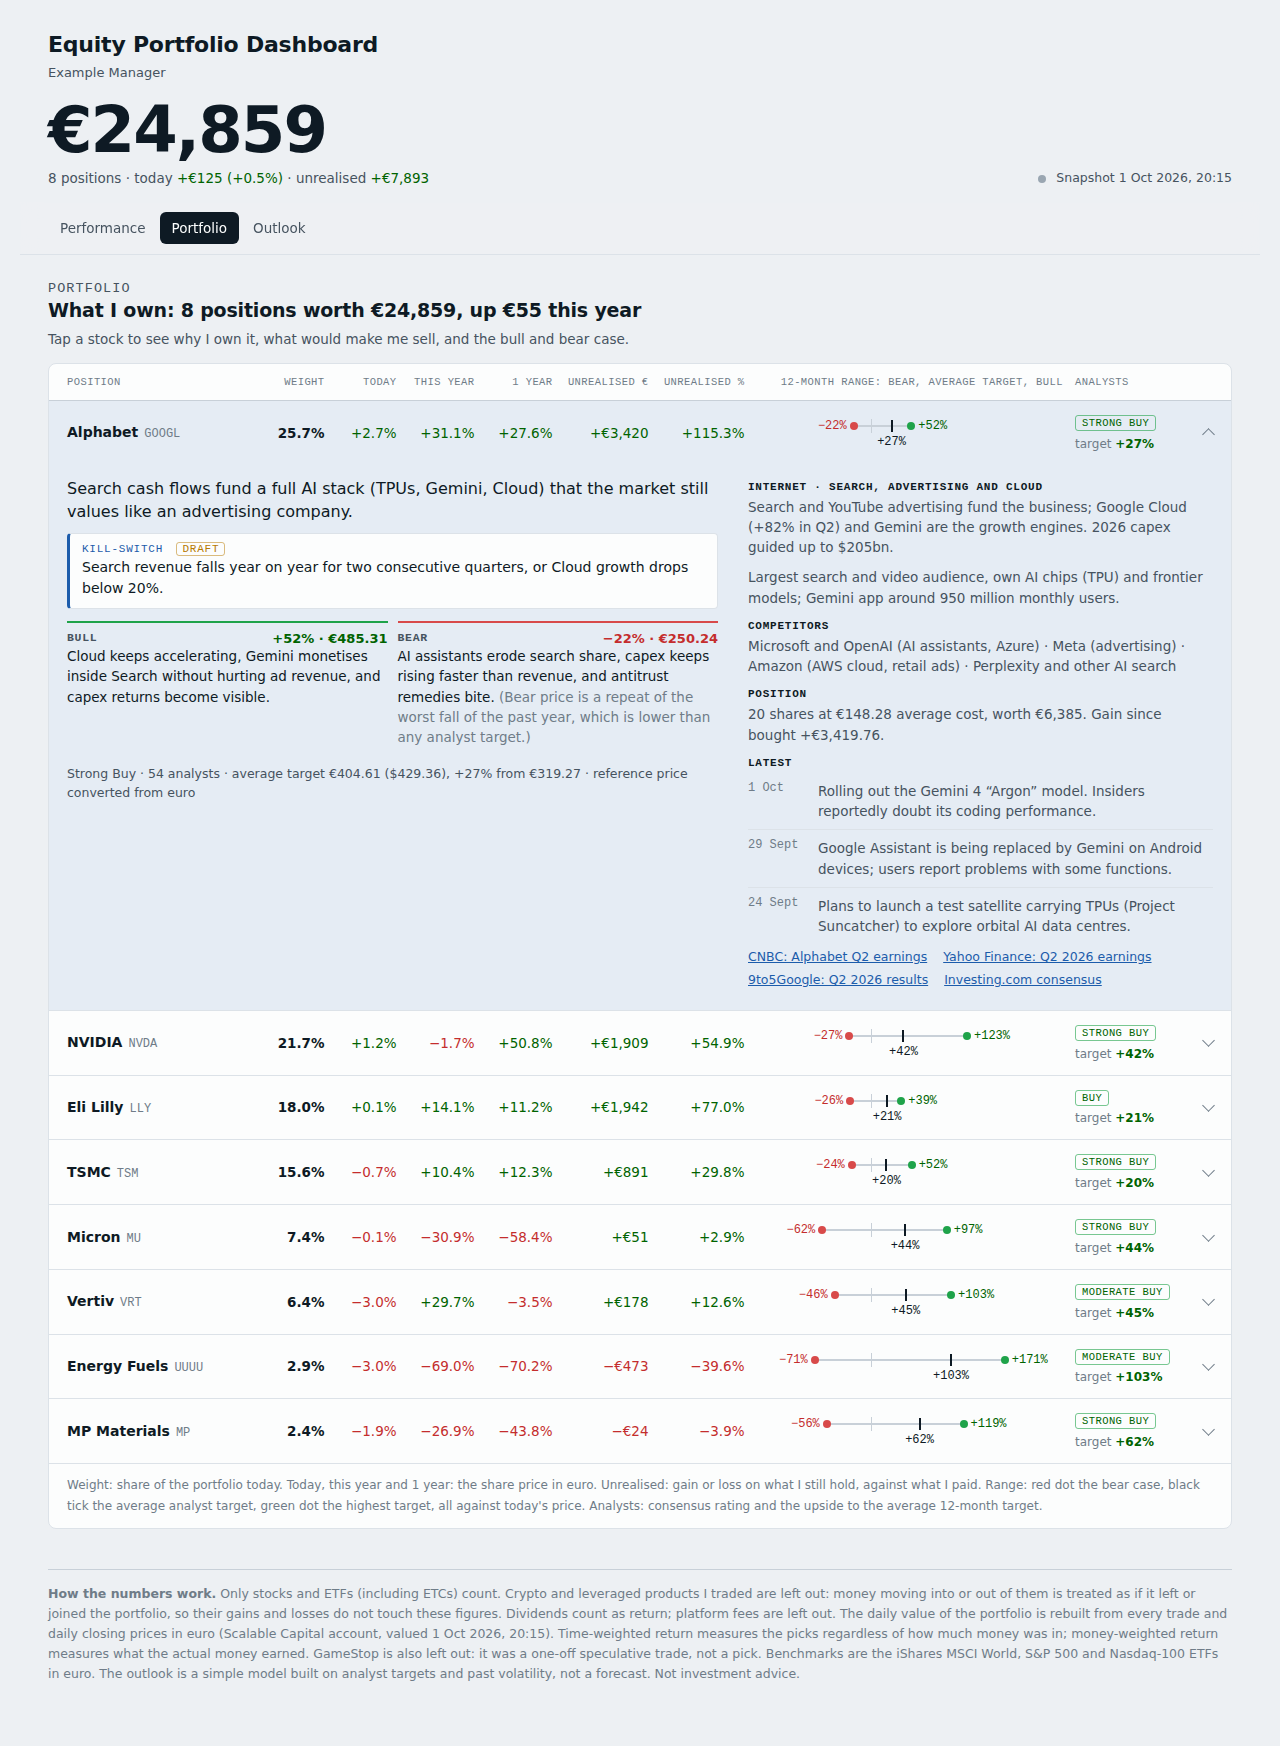
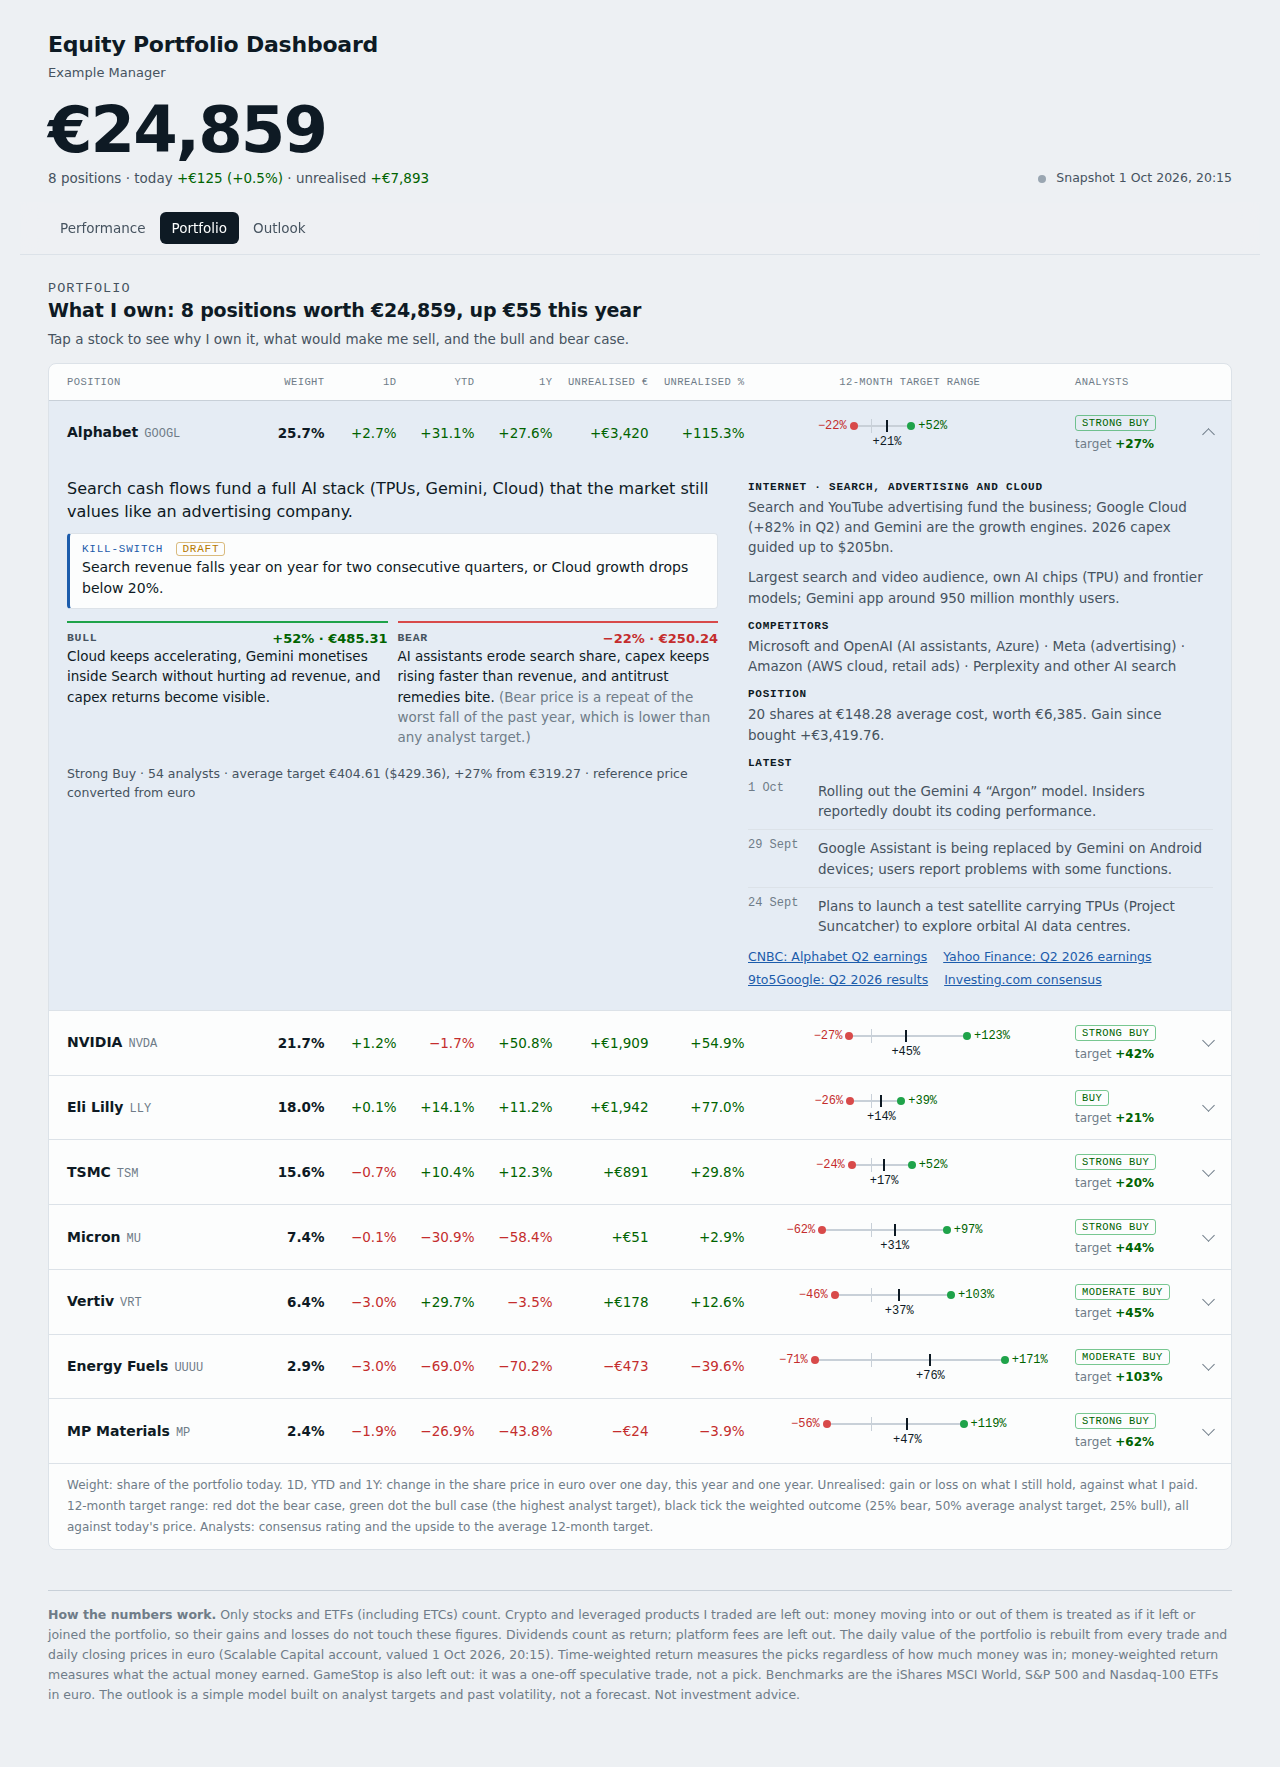
Portfolio: 1D/YTD/1Y, weighted target tick; Outlook: benchmarks at historical CAGR
- Columns renamed 1D, YTD and 1Y; range header is now "12-month target range"
- The black tick is the weighted outcome: 25% bear, 50% average target, 25% bull
- New pipeline/fetch_index_history.js stores each index ETF's annualised growth since
  June 2010 (MSCI World 12.5%, S&P 500 13.6%, Nasdaq-100 18.6%); the Outlook uses it
  as the benchmark's expected return instead of a flat 7%

Claude-Session: https://claude.ai/code/session_01ABTLXaQmWwDDpoTxDco2CE

diff --git a/src/page/views.js b/src/page/views.js
@@ -174,9 +174,10 @@ function renderBook() {
   root.innerHTML = `
   <div class="lede"><div><p class="kicker">Portfolio</p><h2>What I own: ${M.H.length} positions worth ${fmtEUR0(V)}, ${ytd >= 0 ? 'up' : 'down'} ${fmtEUR0(Math.abs(ytd))} this year</h2><p>Tap a stock to see why I own it, what would make me sell, and the bull and bear case.</p></div></div>
   <div class="panel flat">
-    <div class="book-h"><span>Position</span><span>Weight</span><span class="c-d">Today</span><span class="c-d">This year</span><span>1 year</span><span class="c-m">Unrealised €</span><span>Unrealised %</span><span class="c-m c-rng">12-month range: bear, average target, bull</span><span class="c-m">Analysts</span><span></span></div>
+    <div class="book-h"><span>Position</span><span>Weight</span><span class="c-d">1D</span><span class="c-d">YTD</span><span>1Y</span><span class="c-m">Unrealised €</span><span>Unrealised %</span><span class="c-m c-rng">12-month target range</span><span class="c-m">Analysts</span><span></span></div>
     ${M.H.map((h) => {
       const sc = h.sc, cons = h.research && h.research.cons, open = state.open === h.isin;
+      const mid = sc ? expOf(sc, PRESETS.analyst.p) : null; // 25% bear, 50% average target, 25% bull
       return `<div class="posn${open ? ' open' : ''}" data-i="${h.isin}">
         <button class="pos-row" aria-expanded="${open}" aria-controls="pd-${h.isin}">
           <span class="nm"><b>${esc(h.name)}</b><small>${esc(h.ticker || '')}</small></span>
@@ -186,14 +187,14 @@ function renderBook() {
           <span class="n">${pc(h, '1Y')}</span>
           <span class="n c-m">${h.pnl != null ? eur0Span(h.pnl) : '–'}</span>
           <span class="n">${h.pnl != null ? pctSpan(h.pnlPct, 1) : '–'}</span>
-          <span class="c-m c-rng">${sc ? `<span class="rng" role="img" aria-label="Bear ${fmtSignedPct(sc.bear, 0)}, average target ${fmtSignedPct(sc.base, 0)}, bull ${fmtSignedPct(sc.bull, 0)}"><i class="z" style="left:${PX(0)}%"></i><i class="seg" style="left:${PX(sc.bear)}%;width:${PX(sc.bull) - PX(sc.bear)}%"></i><i class="d bear" style="left:${PX(sc.bear)}%"></i><i class="t" style="left:${PX(sc.base)}%"></i><i class="d bull" style="left:${PX(sc.bull)}%"></i><em class="lb neg" style="right:calc(${100 - PX(sc.bear)}% + 7px)">${fmtSignedPct(sc.bear, 0)}</em><em class="lb bs" style="left:${PX(sc.base)}%">${fmtSignedPct(sc.base, 0)}</em><em class="lb pos" style="left:calc(${PX(sc.bull)}% + 7px)">${fmtSignedPct(sc.bull, 0)}</em></span>` : '<small class="muted">no analyst coverage</small>'}</span>
+          <span class="c-m c-rng">${sc ? `<span class="rng" role="img" aria-label="Bear ${fmtSignedPct(sc.bear, 0)}, weighted ${fmtSignedPct(mid, 0)}, bull ${fmtSignedPct(sc.bull, 0)}"><i class="z" style="left:${PX(0)}%"></i><i class="seg" style="left:${PX(sc.bear)}%;width:${PX(sc.bull) - PX(sc.bear)}%"></i><i class="d bear" style="left:${PX(sc.bear)}%"></i><i class="t" style="left:${PX(mid)}%"></i><i class="d bull" style="left:${PX(sc.bull)}%"></i><em class="lb neg" style="right:calc(${100 - PX(sc.bear)}% + 7px)">${fmtSignedPct(sc.bear, 0)}</em><em class="lb bs" style="left:${PX(mid)}%">${fmtSignedPct(mid, 0)}</em><em class="lb pos" style="left:calc(${PX(sc.bull)}% + 7px)">${fmtSignedPct(sc.bull, 0)}</em></span>` : '<small class="muted">no analyst coverage</small>'}</span>
           <span class="c-m cons">${cons && sc ? `<span class="rt ${ratingCls(cons.rating)}">${esc(cons.rating)}</span><small>target <b class="${cls(sc.base)}">${fmtSignedPct(sc.base, 0)}</b></small>` : '<small class="muted">–</small>'}</span>
           <span class="chev" aria-hidden="true"></span>
         </button>
         <div class="pos-d" id="pd-${h.isin}" ${open ? '' : 'hidden'}>${open ? positionDetail(h) : ''}</div>
       </div>`;
     }).join('')}
-    <div class="book-f"><span class="foot-n">Weight: share of the portfolio today. Today, this year and 1 year: the share price in euro. Unrealised: gain or loss on what I still hold, against what I paid. Range: red dot the bear case, black tick the average analyst target, green dot the highest target, all against today's price. Analysts: consensus rating and the upside to the average 12-month target.</span></div>
+    <div class="book-f"><span class="foot-n">Weight: share of the portfolio today. 1D, YTD and 1Y: change in the share price in euro over one day, this year and one year. Unrealised: gain or loss on what I still hold, against what I paid. 12-month target range: red dot the bear case, green dot the bull case (the highest analyst target), black tick the weighted outcome (25% bear, 50% average analyst target, 25% bull), all against today's price. Analysts: consensus rating and the upside to the average 12-month target.</span></div>
   </div>`;
 
   $$('#t-book .pos-row').forEach((b) => b.addEventListener('click', () => {
@@ -251,8 +252,11 @@ function renderRisk() {
   const bName = BSHORT[bench.id] || bench.name;
   const n = state.hz, t = n / 12, hzL = HORIZONS.find((x) => x[0] === n)[1];
   const sigma = R.vol, bVol = R.bVol[bench.id], beta = R.pBeta[bench.id], rho = R.pCorr[bench.id];
-  const mP = Math.log(1 + O.exp) - sigma * sigma / 2, mB = Math.log(1 + REF_MU) - bVol * bVol / 2;
-  const exp = (1 + O.exp) ** t - 1, bExp = (1 + REF_MU) ** t - 1;
+  const ix = M.D.indices.find((x) => x.id === bench.id) || {};
+  const bMu = ix.cagr != null ? ix.cagr : REF_MU; // the benchmark's own historical annual growth
+  const bMuTxt = ix.cagr != null ? `its historical pace of ${fmtSignedPct(bMu, 1)} a year (${dfmt(ix.cagrFrom + '-15', { day: undefined })} to ${dfmt(ix.cagrTo + '-15', { day: undefined })})` : `an assumed ${fmtSignedPct(bMu, 0)} a year`;
+  const mP = Math.log(1 + O.exp) - sigma * sigma / 2, mB = Math.log(1 + bMu) - bVol * bVol / 2;
+  const exp = (1 + O.exp) ** t - 1, bExp = (1 + bMu) ** t - 1;
   const q = (z) => Math.exp(mP * t + z * sigma * Math.sqrt(t)) - 1;
   const sd = Math.sqrt(Math.max(1e-9, sigma * sigma + bVol * bVol - 2 * rho * sigma * bVol) * t);
   const pBeat = normCdf(((mP - mB) * t) / sd);
@@ -264,19 +268,19 @@ function renderRisk() {
     <div class="seg" role="group" aria-label="Scenario odds">${Object.entries(PRESETS).map(([k, v]) => `<button data-pre="${k}" aria-pressed="${k === state.preset}">${v.label}</button>`).join('')}</div>
   </div>
   <div class="kpis4">
-    ${kpi('Expected, ' + hzL, fmtSignedPct(exp, 0), cls(exp), `${exp >= 0 ? '+' : ''}${fmtEUR0(exp * V)} · ${esc(bName)} ${fmtSignedPct(bExp, 0)} assumed`)}
+    ${kpi('Expected, ' + hzL, fmtSignedPct(exp, 0), cls(exp), `${exp >= 0 ? '+' : ''}${fmtEUR0(exp * V)} · ${esc(bName)} ${fmtSignedPct(bExp, 0)} at its historical pace`)}
     ${kpi('9 in 10 outcomes', `<span class="${cls(q(-1.645))}">${fmtSignedPct(q(-1.645), 0)}</span> <span class="muted">to</span> <span class="${cls(q(1.645))}">${fmtSignedPct(q(1.645), 0)}</span>`, '', `${fmtEUR0(V * (1 + q(-1.645)))} to ${fmtEUR0(V * (1 + q(1.645)))}`)}
     ${kpi('Chance of beating ' + esc(bName), Math.round(pBeat * 100) + '%', pBeat >= 0.5 ? 'pos' : 'neg', `over ${hzL}, correlation ${fmtNum(rho, 2)}`)}
     ${kpi('Volatility', (sigma * 100).toFixed(0) + '%', '', `${esc(bName)} ${(bVol * 100).toFixed(0)}% · beta ${fmtNum(beta, 2)}`)}
   </div>
   <div class="panel" style="margin-top:14px">
-    <h3>Range of outcomes, next ${hzL}</h3><p class="sub">Portfolio worth ${fmtEUR0(V)} today. Shaded: 9 in 10 outcomes and the middle half. Dashed: ${esc(bName)} at an assumed ${Math.round(REF_MU * 100)}% a year with its own volatility. Odds ${pr.map((x) => Math.round(x * 100)).join('/')} (bull/base/bear)${n > 12 ? '; beyond 12 months the expected return is assumed to repeat' : ''}.</p>
+    <h3>Range of outcomes, next ${hzL}</h3><p class="sub">Portfolio worth ${fmtEUR0(V)} today. Shaded: 9 in 10 outcomes and the middle half. Dashed: ${esc(bName)} growing at ${bMuTxt}, with its own volatility. Odds ${pr.map((x) => Math.round(x * 100)).join('/')} (bull/base/bear)${n > 12 ? '; beyond 12 months the expected return is assumed to repeat' : ''}.</p>
     <div id="fan" class="chart"></div>
   </div>`;
   $$('#t-risk [data-pre]').forEach((b) => b.addEventListener('click', () => { state.preset = b.dataset.pre; renderRisk(); }));
   $$('#t-risk [data-hz]').forEach((b) => b.addEventListener('click', () => { state.hz = +b.dataset.hz; renderRisk(); }));
   $$('#t-risk [data-ob]').forEach((b) => b.addEventListener('click', () => { state.obench = b.dataset.ob; renderRisk(); }));
-  const fo = { V0: V, mu: O.exp, sigma, months: n, t0: M.asOf, ref: { mu: REF_MU, sigma: bVol, label: bName }, aria: `Range of outcomes over ${hzL}` };
+  const fo = { V0: V, mu: O.exp, sigma, months: n, t0: M.asOf, ref: { mu: bMu, sigma: bVol, label: bName }, aria: `Range of outcomes over ${hzL}` };
   mount($('#fan'), (host, w) => fanChart(host, w, Object.assign({ height: w < 520 ? 260 : 340 }, fo)));
 }
 

diff --git a/pipeline/fetch_index_history.js b/pipeline/fetch_index_history.js
@@ -1,0 +1,37 @@
+// Downloads the full monthly price history of the three benchmark ETFs (euro listings on Xetra) and stores
+// each one's annualised growth rate (CAGR) over the longest window the three share, so they are comparable.
+// The Outlook tab uses these as each benchmark's expected return.
+// Output: <data dir>/index_history.json  { ISIN: { sym, from, to, years, cagr } }
+// Usage:  node pipeline/fetch_index_history.js [data dir, default data/private]
+const fs = require('fs');
+const path = require('path');
+const dir = path.resolve(process.argv[2] || path.join(__dirname, '..', 'data', 'private'));
+const UA = { 'User-Agent': 'Mozilla/5.0 (X11; Linux x86_64) AppleWebKit/537.36 (KHTML, like Gecko) Chrome/126 Safari/537.36' };
+const INDEX = { IE00B4L5Y983: 'EUNL.DE', IE00B5BMR087: 'SXR8.DE', IE00B53SZB19: 'SXRV.DE' };
+const wait = (ms) => new Promise((r) => setTimeout(r, ms));
+async function monthly(sym) {
+  for (let i = 0; i < 4; i++) {
+    const r = await fetch(`https://query2.finance.yahoo.com/v8/finance/chart/${sym}?range=max&interval=1mo`, { headers: UA }).catch(() => null);
+    if (r && r.ok) {
+      const res = (await r.json()).chart.result[0], c = res.indicators.adjclose ? res.indicators.adjclose[0].adjclose : res.indicators.quote[0].close;
+      return res.timestamp.map((t, k) => [new Date(t * 1000).toISOString().slice(0, 7), c[k]]).filter((x) => x[1] != null);
+    }
+    await wait(1500 * (i + 1));
+  }
+  throw new Error('no data for ' + sym);
+}
+(async () => {
+  const S = {};
+  for (const [isin, sym] of Object.entries(INDEX)) { S[isin] = await monthly(sym); await wait(400); }
+  // the accumulating ETFs reinvest dividends, so the price series is already a total return; start at the
+  // second month of the youngest fund, to skip its partial first month
+  const from = Object.values(S).map((s) => s[1][0]).sort().pop();
+  const out = {};
+  for (const [isin, s] of Object.entries(S)) {
+    const a = s.find((x) => x[0] >= from), b = s[s.length - 1];
+    const years = (Date.parse(b[0] + '-15') - Date.parse(a[0] + '-15')) / (365.25 * 864e5);
+    out[isin] = { sym: INDEX[isin], from: a[0], to: b[0], years: +years.toFixed(2), cagr: +((b[1] / a[1]) ** (1 / years) - 1).toFixed(4) };
+    console.log(isin, INDEX[isin], a[0], '→', b[0], (out[isin].cagr * 100).toFixed(1) + '% a year');
+  }
+  fs.writeFileSync(path.join(dir, 'index_history.json'), JSON.stringify(out, null, 1));
+})();

diff --git a/pipeline/make_sample.js b/pipeline/make_sample.js
@@ -95,6 +95,9 @@ fs.writeFileSync(path.join(out, 'series.json'), JSON.stringify({ dates: daily, r
 const me = monthly.filter((d) => d !== '2026-10-01');
 fs.writeFileSync(path.join(out, 'prices_monthly.json'), JSON.stringify(Object.fromEntries(BENCH.map((b) => [b[2], { start: me[0].slice(0, 7), p: me.map((d) => +at(b[2], d).toFixed(4)) }]))));
 
+// long-run growth of each index (the real figures come from pipeline/fetch_index_history.js)
+fs.writeFileSync(path.join(out, 'index_history.json'), JSON.stringify(Object.fromEntries(BENCH.map((b, i) => [b[2], { sym: 'synthetic', from: '2010-06', to: '2026-09', years: 16.25, cagr: [0.11, 0.13, 0.17][i] }])), null, 1));
+
 const profile = JSON.parse(fs.readFileSync(path.join(__dirname, 'profile.template.json'), 'utf8'));
 fs.writeFileSync(path.join(out, 'profile.json'), JSON.stringify(profile, null, 1));
 console.log('sample written to', path.relative(process.cwd(), out), '·', holdings.length, 'holdings · value', total, '· net', net);

diff --git a/src/page/style.css b/src/page/style.css
@@ -441,7 +441,7 @@ ul.criteria li span, ul.rejected li span { color: var(--ink2); }
 /* book */
 .book-h, .pos-row { display: grid; grid-template-columns: minmax(130px, 1.2fr) 52px 60px 66px 66px 84px 84px minmax(230px, 1.9fr) 112px 14px; gap: 12px; align-items: center; }
 .book-h { padding: 12px 18px; border-bottom: 1px solid var(--line2); font: 500 10.5px var(--mono); letter-spacing: 0.04em; text-transform: uppercase; color: var(--ink3); align-items: end; }
-.book-h span:nth-child(n+2) { text-align: right; } .book-h .c-rng { text-align: center; } .book-h span:nth-child(9) { text-align: left; }
+.book-h span:nth-child(n+2) { text-align: right; } .book-h span.c-rng { text-align: center; } .book-h span:nth-child(9) { text-align: left; }
 .posn { border-bottom: 1px solid var(--line); }
 .pos-row { width: 100%; border: 0; background: none; text-align: left; padding: 12px 18px; }
 .pos-row:hover { background: var(--inset); }

diff --git a/pipeline/build_data.js b/pipeline/build_data.js
@@ -34,6 +34,9 @@ const INDICES = [
   { id: 'SPX', name: 'S&P 500', isin: 'IE00B5BMR087', etf: 'iShares Core S&P 500' },
   { id: 'NDX', name: 'Nasdaq-100', isin: 'IE00B53SZB19', etf: 'iShares Nasdaq 100' },
 ].filter((x) => PM[x.isin] || (PD && PD[x.isin]));
+// Long-run annualised growth of each benchmark (pipeline/fetch_index_history.js), the Outlook's expected return.
+const IH = fs.existsSync(path.join(dir, 'index_history.json')) ? rd('index_history.json') : {};
+INDICES.forEach((x) => { const h = IH[x.isin]; if (h) Object.assign(x, { cagr: h.cagr, cagrFrom: h.from, cagrTo: h.to }); });
 const PROFILE = rd('profile.json');
 const STOCKS = require('../research/stocks.js');
 const COMMENTS = require('../research/comments.js');

diff --git a/README.md b/README.md
@@ -11,7 +11,7 @@ answers three questions, one per tab:
 | Tab | Question it answers | What is on it |
 |---|---|---|
 | **Performance** | Have the picks made money, and against which index? | Four headline figures; a daily chart of time-weighted (TWR) or money-weighted (MWR) performance for 1M, 3M, 6M, YTD, 1Y, 2025, 2024 or since inception against MSCI World, the S&P 500 and the Nasdaq-100; *Every period at a glance*, comparing every period with any or all of the three indices |
-| **Portfolio** | What is owned and how is each position doing? | Per position: weight, share-price change today, this year and over one year, unrealised gain in euro and in per cent, the analysts' 12-month range (bear, average target, bull) and the consensus rating with the upside to the average target. Each opens to the thesis, the written kill-switch, bull and bear cases, industry and competitors, and the latest news |
+| **Portfolio** | What is owned and how is each position doing? | Per position: weight, share-price change over 1D, YTD and 1Y, unrealised gain in euro and in per cent, the 12-month target range (bear, weighted outcome, bull) and the consensus rating with the upside to the average target. Each opens to the thesis, the written kill-switch, bull and bear cases, industry and competitors, and the latest news |
 | **Outlook** | What could happen next? | A horizon toggle (3 months to 2 years), a benchmark toggle (S&P 500, Nasdaq-100, MSCI World) and three sets of scenario odds drive the expected return, the 9-in-10 range of outcomes, the chance of beating the benchmark, volatility and beta, and a range-of-outcomes chart |
 
 ![Performance tab, built from the synthetic sample](docs/sample-record.png)
@@ -76,6 +76,7 @@ the browser filling in the missing tags.
 │   │                        income, cash flows, and a reconciliation against the broker
 │   ├── holdings_history.js  Replays tx.csv into holdings and cash at any date (shared helper)
 │   ├── fetch_daily.js       Downloads daily closes in euro for every instrument held and every index
+│   ├── fetch_index_history.js  Long-run monthly history of the three index ETFs -> historical CAGR
 │   ├── history.js           Rebuilds the account value for every trading day from the
 │   │                        replay and market prices, and checks it against the broker's own figures
 │   ├── add_prices.js        Appends month-end prices for one instrument to prices_monthly.json
@@ -111,6 +112,7 @@ Every data directory, private or sample, holds the same files:
 | `snapshot.json` | Scalable connector: `get_portfolio_holdings`, `get_portfolio_overview`, `get_portfolio_cash_breakdown`, `get_security_quote`, `get_security_news` | Valuation time, total, cash, the broker's gain by period, each position (quantity, price, per-period performance, sector and theme) and the benchmark ETFs |
 | `series.json` | `get_security_chart`, one year | Fallback when `prices_daily.json` is absent (the synthetic sample uses it) |
 | `prices_daily.json`, `symbols.json` | `pipeline/fetch_daily.js` (Yahoo Finance chart data; `symbols.json` maps ISINs to tickers and can be edited) | Daily closing prices in euro for every instrument held and every index, from the first deposit |
+| `index_history.json` | `pipeline/fetch_index_history.js` (part of `npm run prices`) | Each benchmark ETF's annualised growth over the longest common window, used as its expected return on the Outlook tab |
 | `prices_monthly.json` | `get_security_chart`, max, stored with `pipeline/add_prices.js` | Month-end prices for every index and for each instrument held at a month end, from the first deposit |
 | `splits.json` (optional) | By hand | Share splits, `{ISIN: [[YYYY-MM-DD, ratio]]}`. Chart prices are split-adjusted; ledger quantities before a split are not |
 | `history.json` | `pipeline/history.js` | Derived: the account value on every trading day |
@@ -165,13 +167,15 @@ daily, annualised with √252.
 **Scenarios.** Per stock, bull is the highest sell-side 12-month target, base the average, and bear the lower
 of the lowest target and a repeat of the stock's worst fall of the past year. Dollar targets are converted at
 the euro rate implied on the day they were collected, so the upside is currency-neutral and is re-measured
-against the live price. The three presets weight bull, base and bear at 25/50/25 (*Analyst view*), 15/45/40
+against the live price. On the Portfolio tab the black tick in the 12-month target range is the weighted outcome: 25% bear, 50%
+average target, 25% bull. The three presets weight bull, base and bear at 25/50/25 (*Analyst view*), 15/45/40
 (*Cautious*) and 5/35/60 (*Stress*).
 
 **Range of outcomes.** A log-normal model: the median path is `V0 · exp((ln(1+μ) − σ²/2)·t)`, and the bands
 are the 5th, 25th, 75th and 95th percentiles. μ is the expected 12-month return under the chosen preset, assumed
-to repeat for horizons beyond a year, and σ the back-cast volatility. The selected benchmark is drawn at an
-assumed 7% a year with its own volatility. *Chance of beating* compares the two log-normal outcomes using the
+to repeat for horizons beyond a year, and σ the back-cast volatility. The selected benchmark is drawn at its own
+historical annualised growth (CAGR of its accumulating ETF in euro over the longest window all three share,
+from `index_history.json`) with its own volatility. *Chance of beating* compares the two log-normal outcomes using the
 back-cast correlation between the portfolio and the benchmark. Real markets have fatter tails than this model.
 
 ## Editing theses and kill-switches
